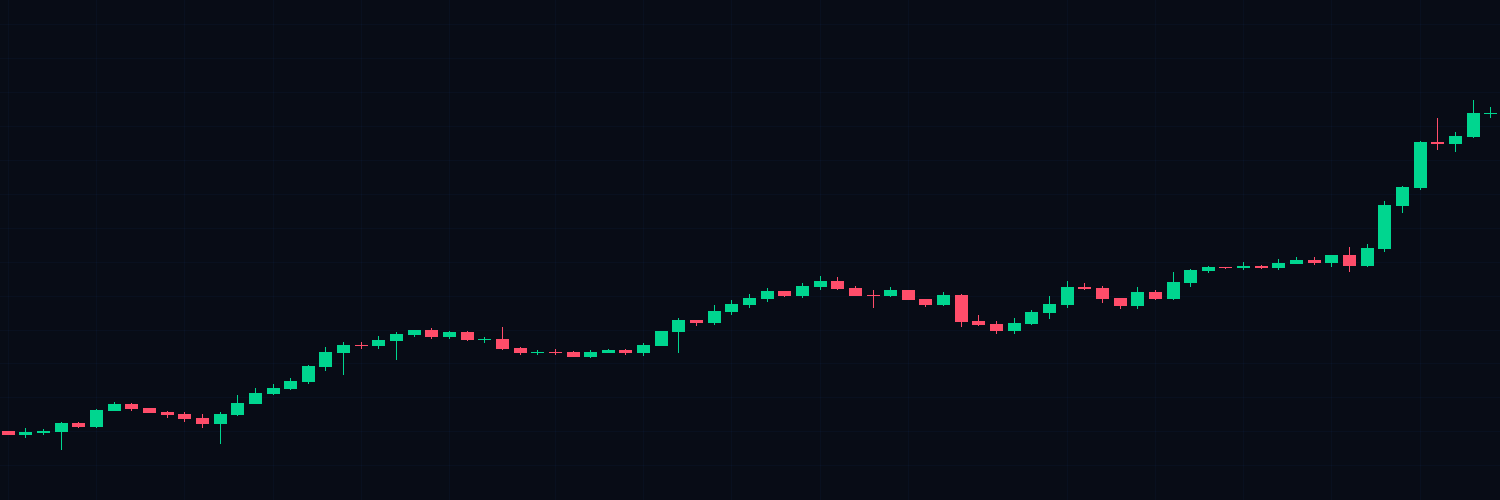
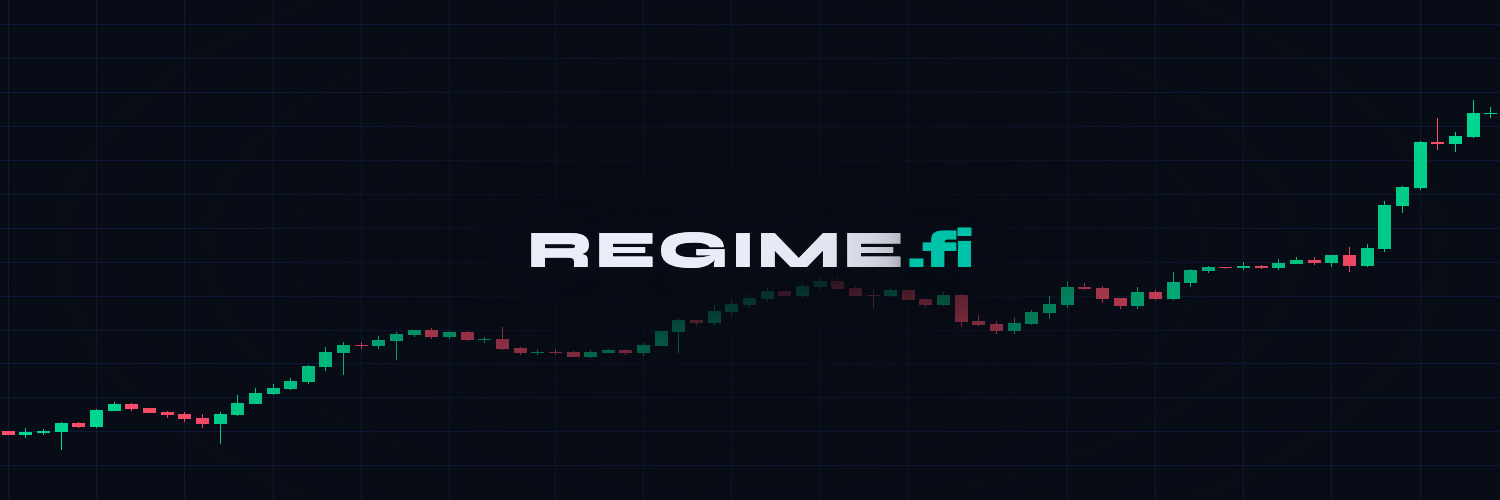
feat: add light mode variants, header wordmark, and vignette overlays
- Add radial gradient vignette to dim chart behind text on avatars/headers
- Add centered REGIME.fi wordmark to header images
- Create light mode versions of all avatars and headers using brand light palette
- Bump grid line opacity for more visible background grid

diff --git a/images/render.js b/images/render.js
@@ -22,48 +22,54 @@ const headers = [
 (async () => {
   const browser = await puppeteer.launch({ headless: 'new' });
 
-  // Render avatars — load via file URL for local script resolution
-  const avatarFile = path.join(__dirname, 'avatar.html');
-  for (const { name, size, scale } of avatars) {
-    const page = await browser.newPage();
-    await page.setViewport({ width: size, height: size, deviceScaleFactor: scale });
-    await page.goto(`file://${avatarFile}`, { waitUntil: 'networkidle0' });
-    await new Promise(r => setTimeout(r, 2000));
-    const outFile = `${name}-avatar.png`;
-    await page.screenshot({ path: path.join(__dirname, outFile) });
-    const px = Math.round(size * scale);
-    console.log(`${outFile} (${px}x${px})`);
-    await page.close();
+  // Render avatars — dark and light
+  for (const variant of ['dark', 'light']) {
+    const avatarFile = path.join(__dirname, variant === 'dark' ? 'avatar.html' : 'avatar-light.html');
+    for (const { name, size, scale } of avatars) {
+      const page = await browser.newPage();
+      await page.setViewport({ width: size, height: size, deviceScaleFactor: scale });
+      await page.goto(`file://${avatarFile}`, { waitUntil: 'networkidle0' });
+      await new Promise(r => setTimeout(r, 2000));
+      const suffix = variant === 'dark' ? '' : '-light';
+      const outFile = `${name}-avatar${suffix}.png`;
+      await page.screenshot({ path: path.join(__dirname, outFile) });
+      const px = Math.round(size * scale);
+      console.log(`${outFile} (${px}x${px})`);
+      await page.close();
+    }
   }
 
-  // Render headers — lightweight-charts needs specific dimensions
-  const headerHtml = fs.readFileSync(path.join(__dirname, 'header.html'), 'utf8');
-  for (const { name, width, height, scale } of headers) {
-    const page = await browser.newPage();
-    await page.setViewport({ width, height, deviceScaleFactor: scale });
+  // Render headers — dark and light
+  for (const variant of ['dark', 'light']) {
+    const headerHtml = fs.readFileSync(path.join(__dirname, variant === 'dark' ? 'header.html' : 'header-light.html'), 'utf8');
+    for (const { name, width, height, scale } of headers) {
+      const page = await browser.newPage();
+      await page.setViewport({ width, height, deviceScaleFactor: scale });
 
-    // Adjust CSS and chart dimensions for this platform
-    let html = headerHtml
-      .replace(/width:\s*1500px/g, `width: ${width}px`)
-      .replace(/height:\s*500px/g, `height: ${height}px`)
-      .replace(/width: 1500,/g, `width: ${width},`)
-      .replace(/height: 500,/g, `height: ${height},`);
+      // Adjust CSS and chart dimensions for this platform
+      let html = headerHtml
+        .replace(/width:\s*1500px/g, `width: ${width}px`)
+        .replace(/height:\s*500px/g, `height: ${height}px`)
+        .replace(/width: 1500,/g, `width: ${width},`)
+        .replace(/height: 500,/g, `height: ${height},`);
 
-    // Load via file URL so relative script paths resolve
-    const tmpFile = path.join(__dirname, `_tmp_header_${name}.html`);
-    require('fs').writeFileSync(tmpFile, html);
-    await page.goto(`file://${tmpFile}`, { waitUntil: 'networkidle0' });
-    require('fs').unlinkSync(tmpFile);
+      // Load via file URL so relative script paths resolve
+      const tmpFile = path.join(__dirname, `_tmp_header_${name}.html`);
+      require('fs').writeFileSync(tmpFile, html);
+      await page.goto(`file://${tmpFile}`, { waitUntil: 'networkidle0' });
+      require('fs').unlinkSync(tmpFile);
 
-    // Give lightweight-charts time to render
-    await new Promise(r => setTimeout(r, 2000));
+      // Give lightweight-charts time to render
+      await new Promise(r => setTimeout(r, 2000));
 
-    const outFile = `${name}-header.png`;
-    await page.screenshot({ path: path.join(__dirname, outFile) });
-    const px_w = Math.round(width * scale);
-    const px_h = Math.round(height * scale);
-    console.log(`${outFile} (${px_w}x${px_h})`);
-    await page.close();
+      const suffix = variant === 'dark' ? '' : '-light';
+      const outFile = `${name}-header${suffix}.png`;
+      await page.screenshot({ path: path.join(__dirname, outFile) });
+      const px_w = Math.round(width * scale);
+      const px_h = Math.round(height * scale);
+      console.log(`${outFile} (${px_w}x${px_h})`);
+      await page.close();
+    }
   }
 
   await browser.close();

diff --git a/images/avatar-light.html b/images/avatar-light.html
@@ -10,7 +10,7 @@
     width: 400px;
     height: 400px;
     overflow: hidden;
-    background: #080C16;
+    background: #FAFBFD;
   }
   #chart {
     position: absolute;
@@ -27,9 +27,9 @@
     z-index: 1;
     background: radial-gradient(
       ellipse 70% 60% at 50% 50%,
-      rgba(8,12,22,0.85) 0%,
-      rgba(8,12,22,0.6) 40%,
-      rgba(8,12,22,0.2) 70%,
+      rgba(250,251,253,0.85) 0%,
+      rgba(250,251,253,0.6) 40%,
+      rgba(250,251,253,0.2) 70%,
       transparent 100%
     );
   }
@@ -50,17 +50,17 @@
     font-size: 190px;
     line-height: 0.85;
     letter-spacing: -5px;
-    color: #E8EDF8;
+    color: #111827;
     user-select: none;
     text-shadow:
-      0 0 30px #080C16,
-      0 0 50px #080C16,
-      0 0 80px #080C16,
-      0 0 120px #080C16,
-      0 0 160px #080C16,
-      0 0 200px rgba(8,12,22,0.95),
-      0 0 250px rgba(8,12,22,0.9),
-      0 0 300px rgba(8,12,22,0.8);
+      0 0 30px #FAFBFD,
+      0 0 50px #FAFBFD,
+      0 0 80px #FAFBFD,
+      0 0 120px #FAFBFD,
+      0 0 160px #FAFBFD,
+      0 0 200px rgba(250,251,253,0.95),
+      0 0 250px rgba(250,251,253,0.9),
+      0 0 300px rgba(250,251,253,0.8);
   }
   .wordmark {
     font-family: 'Syne', sans-serif;
@@ -71,16 +71,16 @@
     margin-top: -2px;
     user-select: none;
     text-shadow:
-      0 0 20px #080C16,
-      0 0 40px #080C16,
-      0 0 70px #080C16,
-      0 0 100px #080C16,
-      0 0 140px #080C16,
-      0 0 180px rgba(8,12,22,0.95),
-      0 0 220px rgba(8,12,22,0.9);
+      0 0 20px #FAFBFD,
+      0 0 40px #FAFBFD,
+      0 0 70px #FAFBFD,
+      0 0 100px #FAFBFD,
+      0 0 140px #FAFBFD,
+      0 0 180px rgba(250,251,253,0.95),
+      0 0 220px rgba(250,251,253,0.9);
   }
-  .regime { color: #E8EDF8; }
-  .fi { color: #00C2A8; letter-spacing: -1px; }
+  .regime { color: #111827; }
+  .fi { color: #00A88E; letter-spacing: -1px; }
 </style>
 </head>
 <body>
@@ -102,13 +102,13 @@
     width: 400,
     height: 400,
     layout: {
-      background: { color: '#080C16' },
+      background: { color: '#FAFBFD' },
       textColor: 'transparent',
       attributionLogo: false,
     },
     grid: {
-      vertLines: { color: 'rgba(45,106,255,0.14)' },
-      horzLines: { color: 'rgba(45,106,255,0.14)' },
+      vertLines: { color: 'rgba(45,106,255,0.10)' },
+      horzLines: { color: 'rgba(45,106,255,0.10)' },
     },
     timeScale: {
       visible: false,
@@ -126,12 +126,12 @@
   });
 
   const candleSeries = chart.addSeries(LightweightCharts.CandlestickSeries, {
-    upColor: '#00D68F',
-    downColor: '#FF4D6A',
-    borderUpColor: '#00D68F',
-    borderDownColor: '#FF4D6A',
-    wickUpColor: '#00D68F',
-    wickDownColor: '#FF4D6A',
+    upColor: '#00B377',
+    downColor: '#E0435C',
+    borderUpColor: '#00B377',
+    borderDownColor: '#E0435C',
+    wickUpColor: '#00B377',
+    wickDownColor: '#E0435C',
     lastValueVisible: false,
     priceLineVisible: false,
   });

diff --git a/images/header-light.html b/images/header-light.html
@@ -10,7 +10,7 @@
     width: 1500px;
     height: 500px;
     overflow: hidden;
-    background: #080C16;
+    background: #FAFBFD;
   }
   #chart {
     position: absolute;
@@ -27,9 +27,9 @@
     z-index: 1;
     background: radial-gradient(
       ellipse 50% 70% at 50% 50%,
-      rgba(8,12,22,0.8) 0%,
-      rgba(8,12,22,0.5) 35%,
-      rgba(8,12,22,0.15) 65%,
+      rgba(250,251,253,0.8) 0%,
+      rgba(250,251,253,0.5) 35%,
+      rgba(250,251,253,0.15) 65%,
       transparent 100%
     );
   }
@@ -51,17 +51,17 @@
     letter-spacing: 4px;
     user-select: none;
     text-shadow:
-      0 0 20px #080C16,
-      0 0 40px #080C16,
-      0 0 70px #080C16,
-      0 0 100px #080C16,
-      0 0 140px #080C16,
-      0 0 180px rgba(8,12,22,0.95),
-      0 0 240px rgba(8,12,22,0.9),
-      0 0 300px rgba(8,12,22,0.8);
+      0 0 20px #FAFBFD,
+      0 0 40px #FAFBFD,
+      0 0 70px #FAFBFD,
+      0 0 100px #FAFBFD,
+      0 0 140px #FAFBFD,
+      0 0 180px rgba(250,251,253,0.95),
+      0 0 240px rgba(250,251,253,0.9),
+      0 0 300px rgba(250,251,253,0.8);
   }
-  .regime { color: #E8EDF8; }
-  .fi { color: #00C2A8; letter-spacing: -2px; }
+  .regime { color: #111827; }
+  .fi { color: #00A88E; letter-spacing: -2px; }
   /* Hide the TradingView watermark */
   [class*="apply-common-tooltip"] { display: none !important; }
   a[href*="tradingview"] { display: none !important; }
@@ -85,13 +85,13 @@
     width: 1500,
     height: 500,
     layout: {
-      background: { color: '#080C16' },
+      background: { color: '#FAFBFD' },
       textColor: 'transparent',
       attributionLogo: false,
     },
     grid: {
-      vertLines: { color: 'rgba(45,106,255,0.14)' },
-      horzLines: { color: 'rgba(45,106,255,0.14)' },
+      vertLines: { color: 'rgba(45,106,255,0.10)' },
+      horzLines: { color: 'rgba(45,106,255,0.10)' },
     },
     timeScale: {
       visible: false,
@@ -113,12 +113,12 @@
   });
 
   const candleSeries = chart.addSeries(LightweightCharts.CandlestickSeries, {
-    upColor: '#00D68F',
-    downColor: '#FF4D6A',
-    borderUpColor: '#00D68F',
-    borderDownColor: '#FF4D6A',
-    wickUpColor: '#00D68F',
-    wickDownColor: '#FF4D6A',
+    upColor: '#00B377',
+    downColor: '#E0435C',
+    borderUpColor: '#00B377',
+    borderDownColor: '#E0435C',
+    wickUpColor: '#00B377',
+    wickDownColor: '#E0435C',
     lastValueVisible: false,
     priceLineVisible: false,
   });
